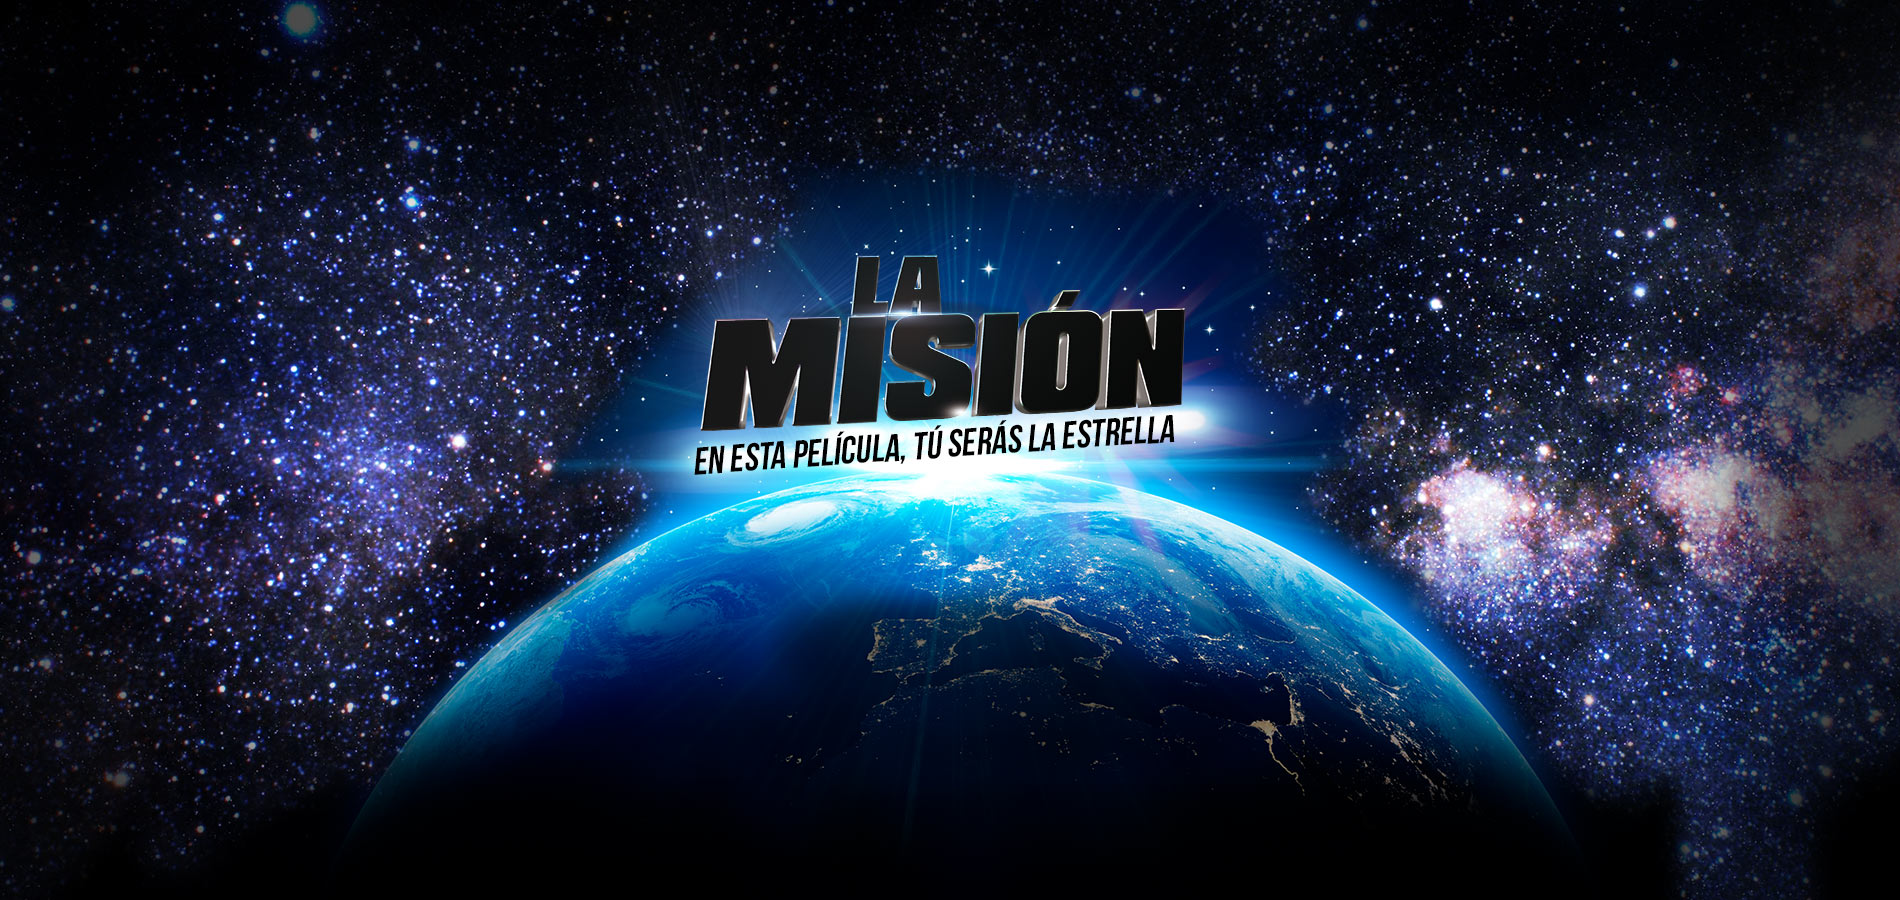
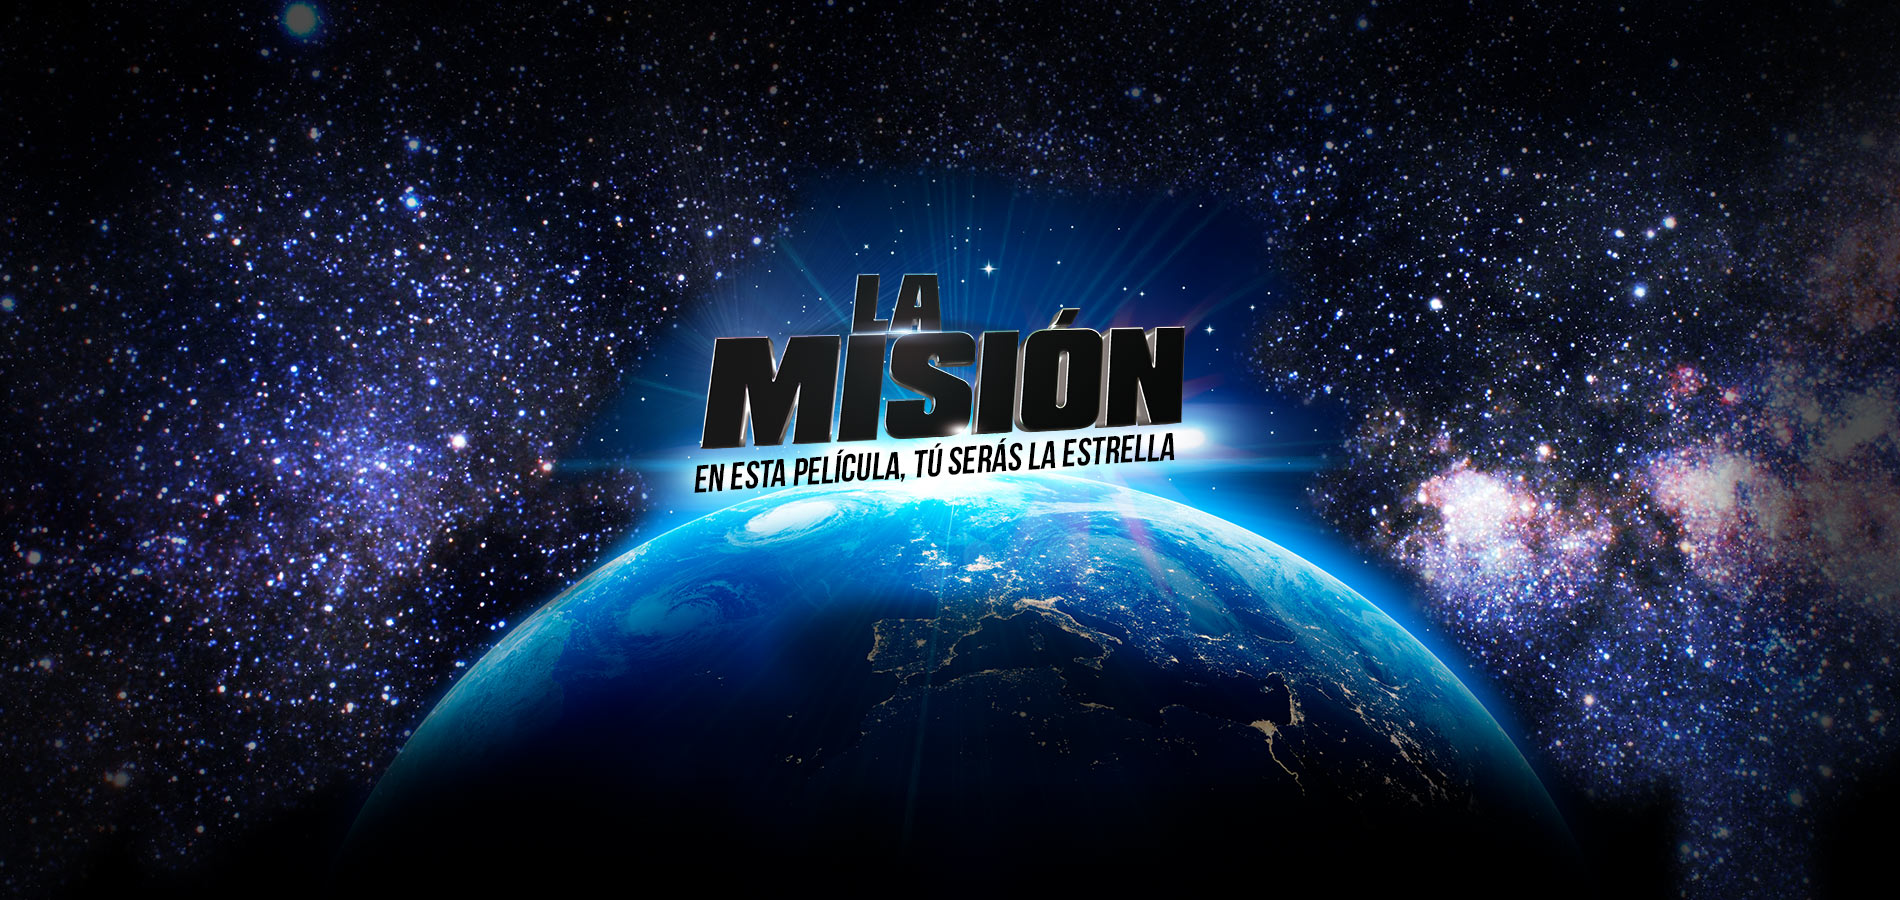
sdsdsd

Changed region(s): [[0.3416, 0.28, 0.6832, 0.6533]]

diff --git a/sites/all/themes/kimberly/scss/modules/_dsusers.scss b/sites/all/themes/kimberly/scss/modules/_dsusers.scss
@@ -73,7 +73,7 @@
 }
 .front.not-logged-in{
   .main-wrapper{
-    background: url("../images/backgrounds/login.jpg") center -100px no-repeat;
+    background: url("../images/backgrounds/login.jpg") center 0px no-repeat;
     padding: 50px 0;
     min-height: 500px;
     .block-user-login {
